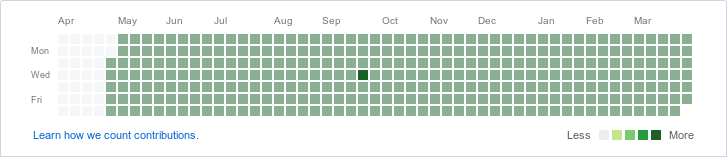
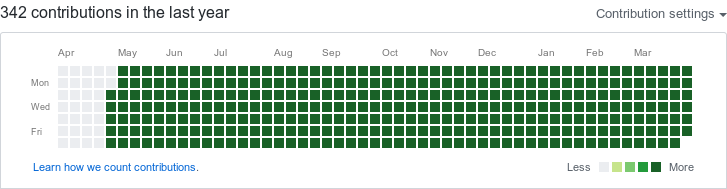
after image update

diff --git a/README.md b/README.md
@@ -7,6 +7,14 @@ I  declare that this tool is made entirely for fun and learning some shell. Inap
 This tool converts your GitHub contribution calendar to all green. Isn't it amazing ;)
 If you are here just for testing purpose. Kindly do it in another GitHub account (probably some secret one) or you can delete that repo later.
 
+This is how profile looked before.
+
+![before](img/before-shellybot.png)
+
+This is how it looked after.
+
+![after](img/after-shellybot.png)
+
 ## RUN
 
 create a new repo in your GitHub profile.
@@ -15,7 +23,7 @@ clone that repo.
 
 Download or clone this repo and copy `main.sh` file into your newly created repo.
 
-run manin.sh file as sudo
+run main.sh file as sudo
 
 `sudo bash main.sh`
 
@@ -26,3 +34,4 @@ Enter end date.
 finally `PUSH` your repo to see the magic.
 
 `git push -u origin master`
+
